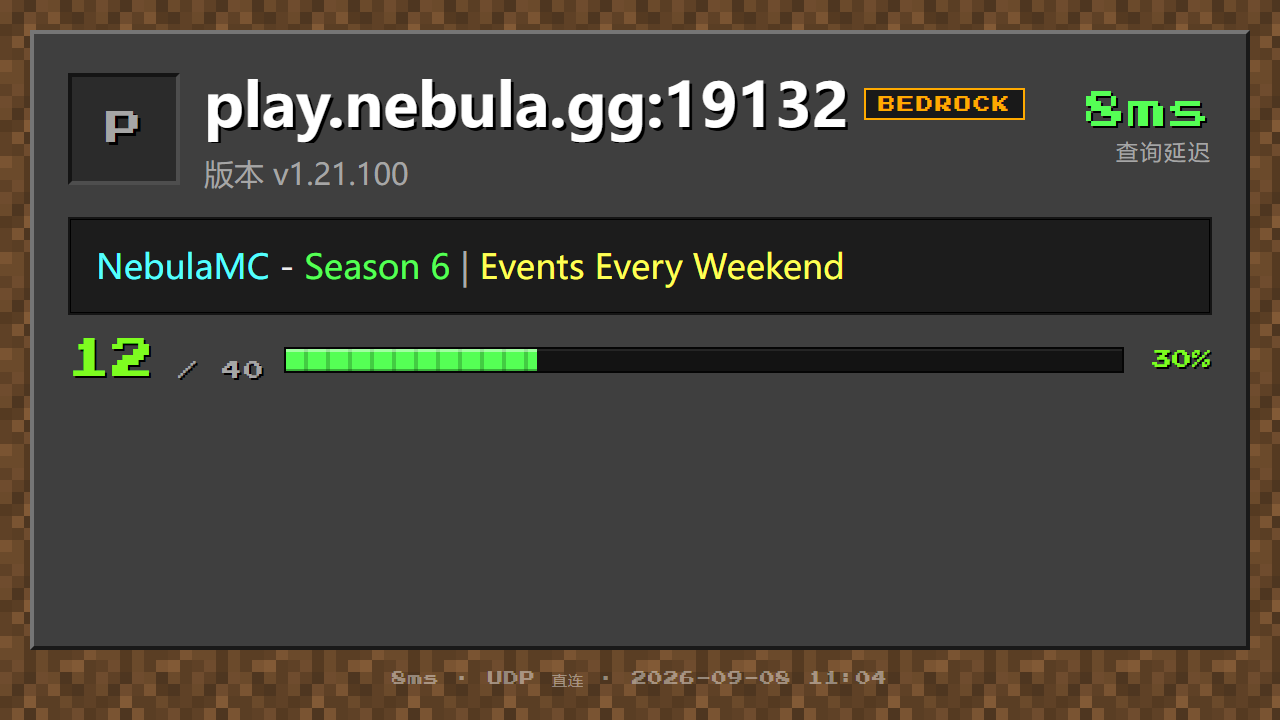
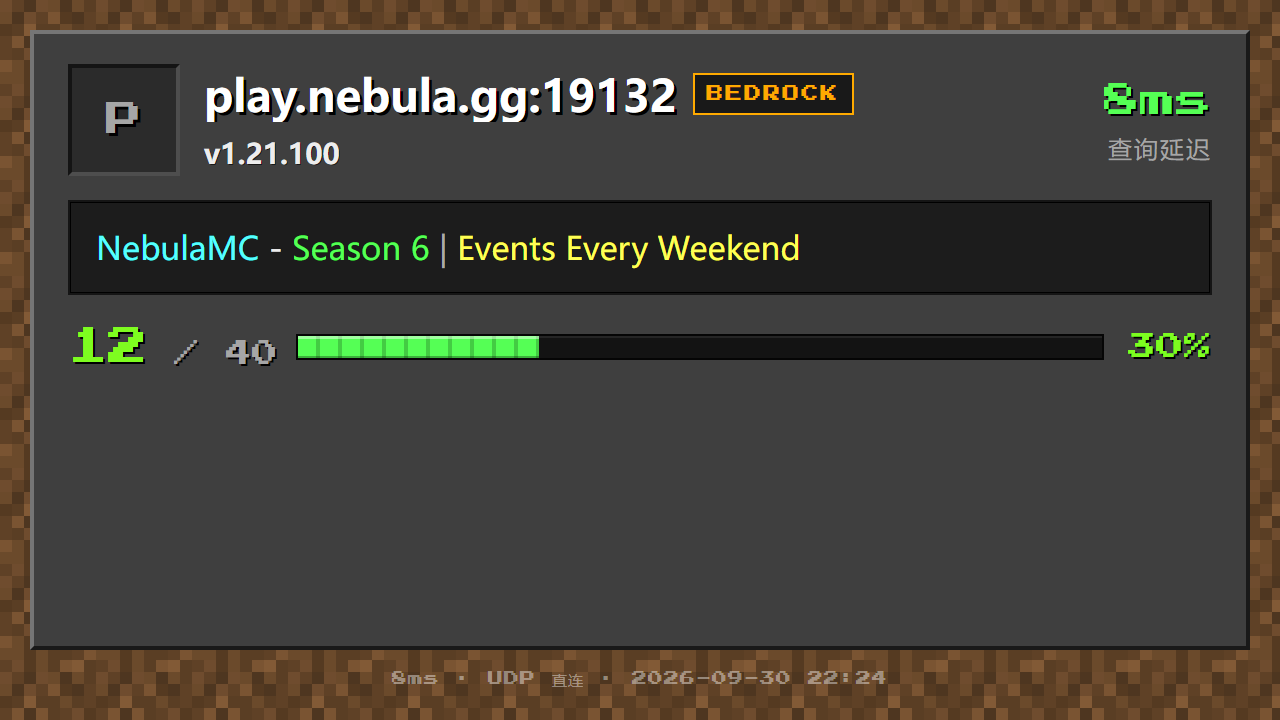
docs: 基于 v3.3.0 更新预览图

diff --git a/README.md b/README.md
@@ -5,9 +5,9 @@
 默认直连查询; 支持图片渲染/文本输出; 支持 Java/基岩; 兼容 ViaVersion; 支持代理子服查询
 
 <!-- 随图片同步更新cache buster ?v=版本 -->
-![插件输出图片效果预览图1](https://cdn.jsdelivr.net/gh/Hayston1001/astrbot_plugin_minecraft_motd@main/assets/preview_java.png?v=1)
-![插件输出图片效果预览图2](https://cdn.jsdelivr.net/gh/Hayston1001/astrbot_plugin_minecraft_motd@main/assets/preview_bedrock.png?v=1)
-![插件输出图片效果预览图3](https://cdn.jsdelivr.net/gh/Hayston1001/astrbot_plugin_minecraft_motd@main/assets/preview_proxy.png?v=1)
+![插件输出图片效果预览图1](https://cdn.jsdelivr.net/gh/Hayston1001/astrbot_plugin_minecraft_motd@main/assets/preview_java.png?v=2)
+![插件输出图片效果预览图2](https://cdn.jsdelivr.net/gh/Hayston1001/astrbot_plugin_minecraft_motd@main/assets/preview_bedrock.png?v=2)
+![插件输出图片效果预览图3](https://cdn.jsdelivr.net/gh/Hayston1001/astrbot_plugin_minecraft_motd@main/assets/preview_proxy.png?v=2)
 
 ## 功能特性
 
